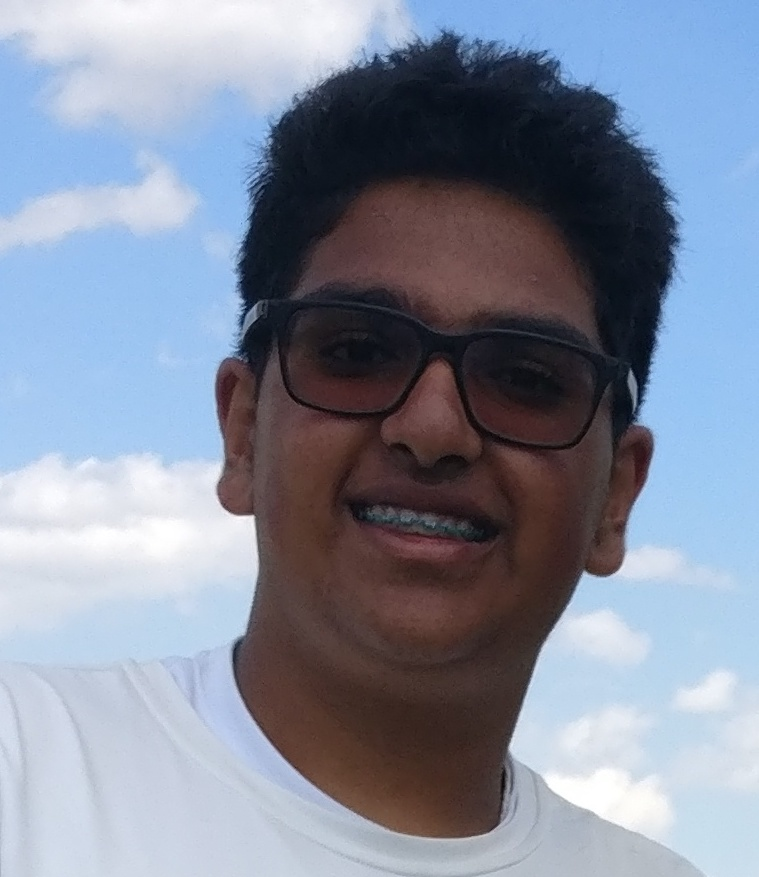
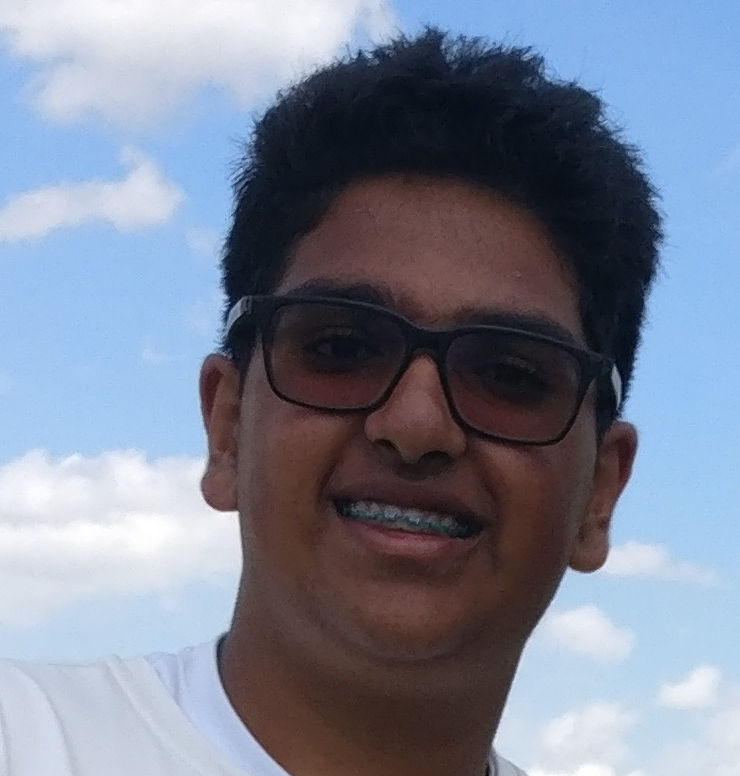
added faces

diff --git a/camp/leaders/index.html b/camp/leaders/index.html
@@ -52,14 +52,14 @@
                         
                         <div class="row text-justify">
                         <div class="col-sm-6 col-xs-12">
-                            <img class="img-responsive img-circle center-block person left" src="../assets/.jpeg" alt="Mark Senne">
+                            <img class="img-responsive img-circle center-block person left" src="../assets/mark.jpg" alt="Mark Senne">
                             <div class="title"><p class="text-center test"><b>Mark Senne</b> -- Venue Coordinator</p></div><br>
                         </div>
                         </div>
                         
                         <div class="row text-justify">
                         <div class="col-lg-6 col-md-6 col-sm-6 col-xs-12">
-                            <img class="img-responsive img-circle center-block person left" src="../assets/.jpeg" alt="Christian Galang">
+                            <img class="img-responsive img-circle center-block person left" src="../assets/christian.jpg" alt="Christian Galang">
                             <div class="title"><p class="text-center test"><b>Christian Galang</b> -- Merchandise Coordinator</p></div><br>
                         </div>
                         </div>
@@ -73,7 +73,7 @@
                         
                         <div class="row text-justify">
                         <div class="col-lg-6 col-md-6 col-sm-6 col-xs-12">
-                            <img class="img-responsive img-circle center-block person" src="../assets/.jpeg" alt="Avi Parshionikar">
+                            <img class="img-responsive img-circle center-block person" src="../assets/avi.jpg" alt="Avi Parshionikar">
                             <div><p class="text-center"><b>Avi Parshionikar</b> -- Technology Coordinator</p></div><br>
                         </div>
                         </div>
